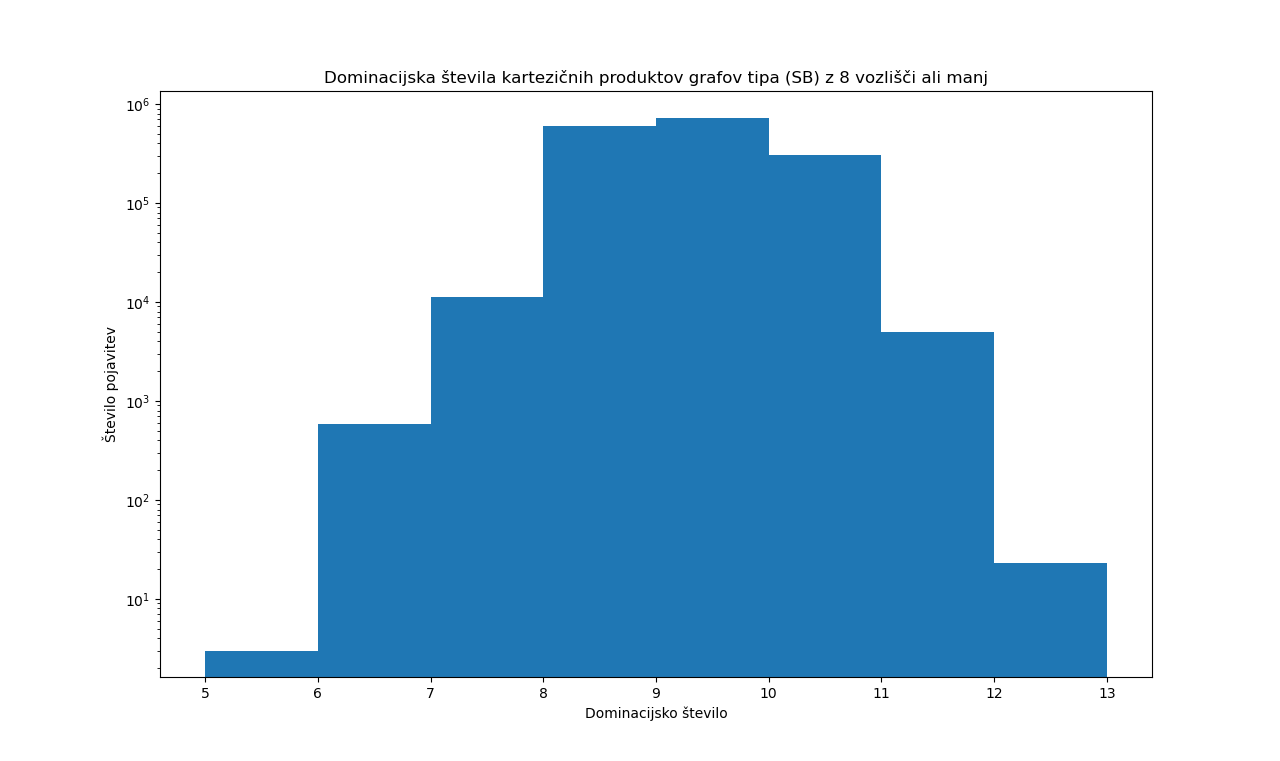
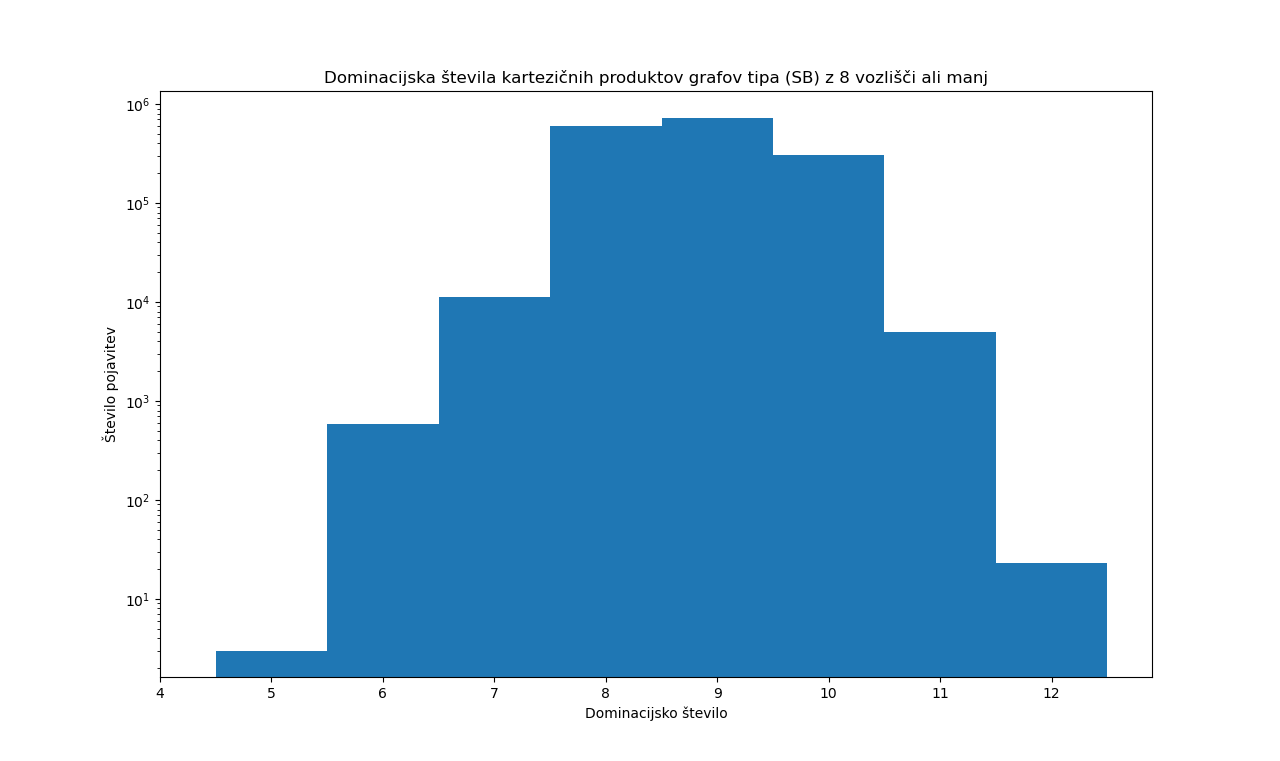
popravil x-os v histogramih

diff --git a/programi/plot_domination_numbers_upper_sampling.py b/programi/plot_domination_numbers_upper_sampling.py
@@ -6,16 +6,18 @@ data = []
 with open("../podatki/sb_cartesian_products_dominating_numbers_upper_sampled.txt", "r") as F:
     for line in F:
         g1, g2, d = line.rstrip().split()
-        data.append(int(d))
+        data.append(int(d)-0.5)
 
 bins = np.arange(min(data), max(data)+2)
+bins_ticks = np.arange(min(data)-0.5, max(data)+1.5)
 
 print(Counter(data))
 
 fig, ax = plt.subplots()
 
-ax.hist(data, bins=bins)
-plt.xticks(bins)
+ax.hist(data, bins=bins, align="mid")
+plt.xticks(bins_ticks)
+
 ax.set_title("Dominacijska števila kartezičnih produktov grafov tipa (SB) z 10 vozlišči,\n naključno izbrani brez ponavljanja, 10 000 vzorcev")
 plt.yscale("log")
 plt.xlabel('Dominacijsko število')

diff --git a/programi/plot_domination_numbers.py b/programi/plot_domination_numbers.py
@@ -6,16 +6,18 @@ data = []
 with open("../podatki/sb_cartesian_products_dominating_numbers_below_9.txt", "r") as F:
     for line in F:
         g1, g2, d = line.rstrip().split()
-        data.append(int(d))
+        data.append(int(d)-0.5)
 
 bins = np.arange(min(data), max(data)+2)
+bins_ticks = np.arange(min(data)-0.5, max(data)+1.5)
 
 print(Counter(data))
 
 fig, ax = plt.subplots()
 
 ax.hist(data, bins=bins)
-plt.xticks(bins)
+plt.xticks(bins_ticks)
+
 ax.set_title("Dominacijska števila kartezičnih produktov grafov tipa (SB) z 8 vozlišči ali manj")
 plt.yscale("log")
 plt.xlabel('Dominacijsko število')
